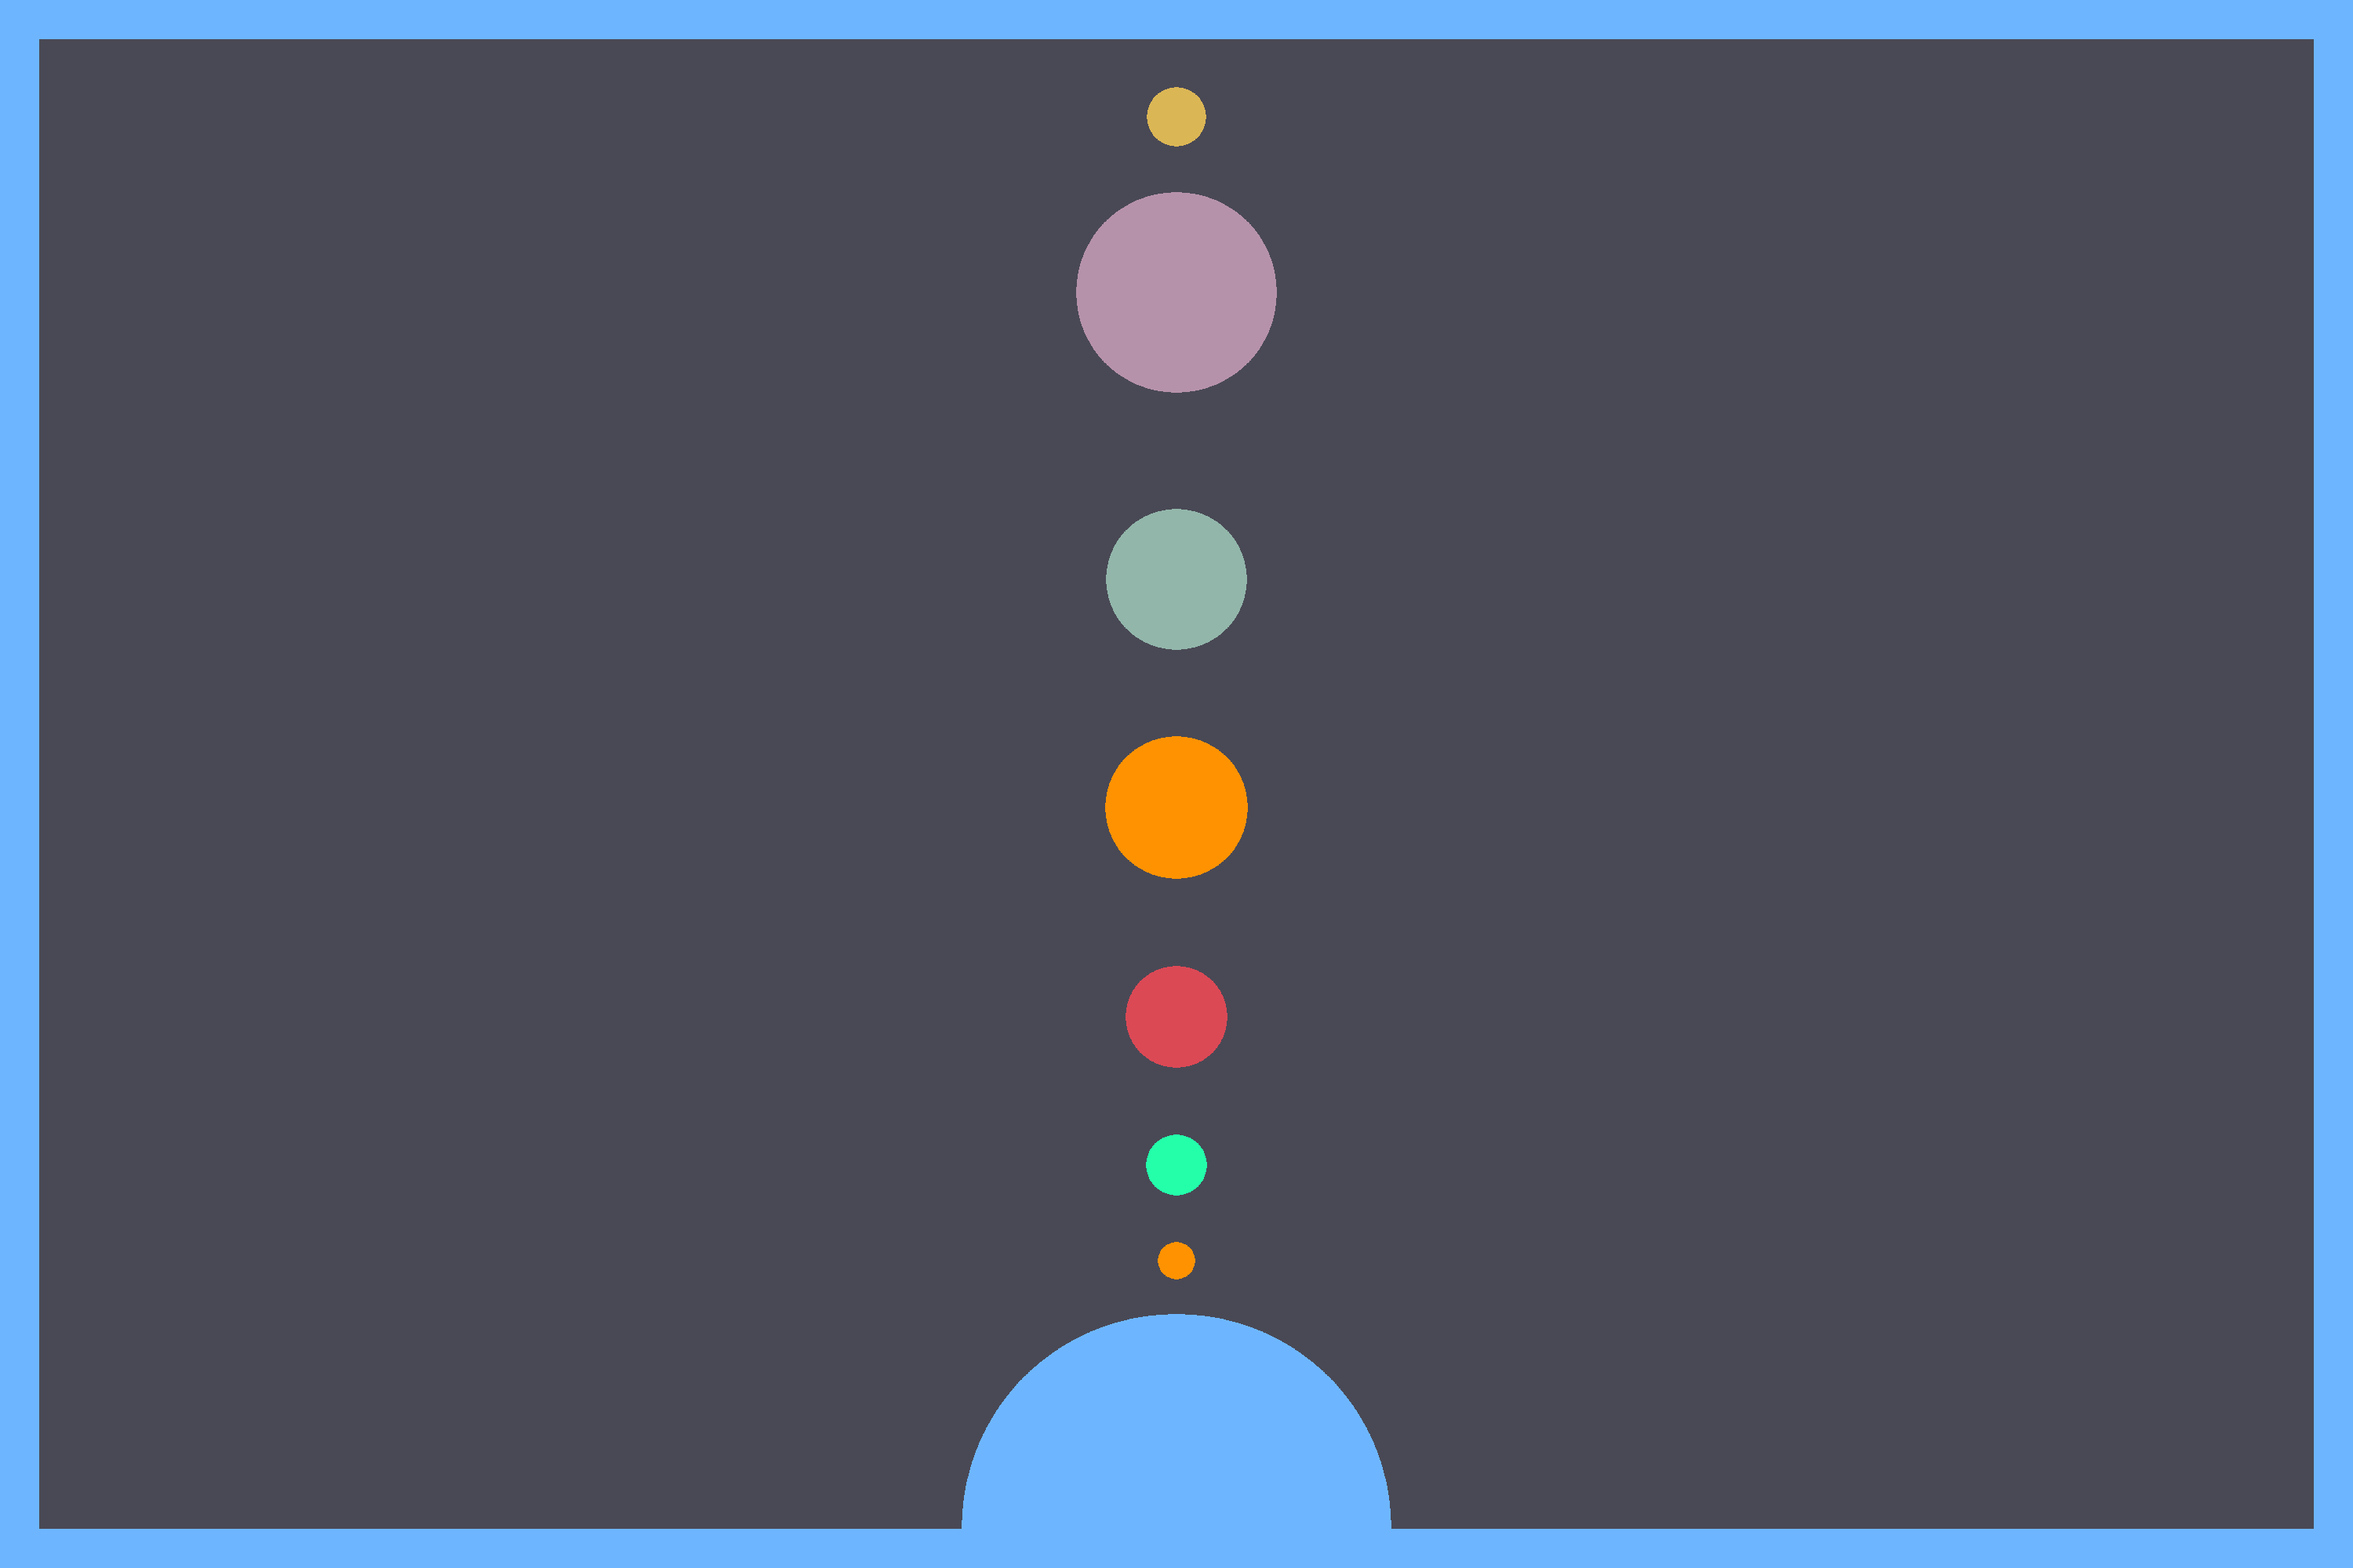
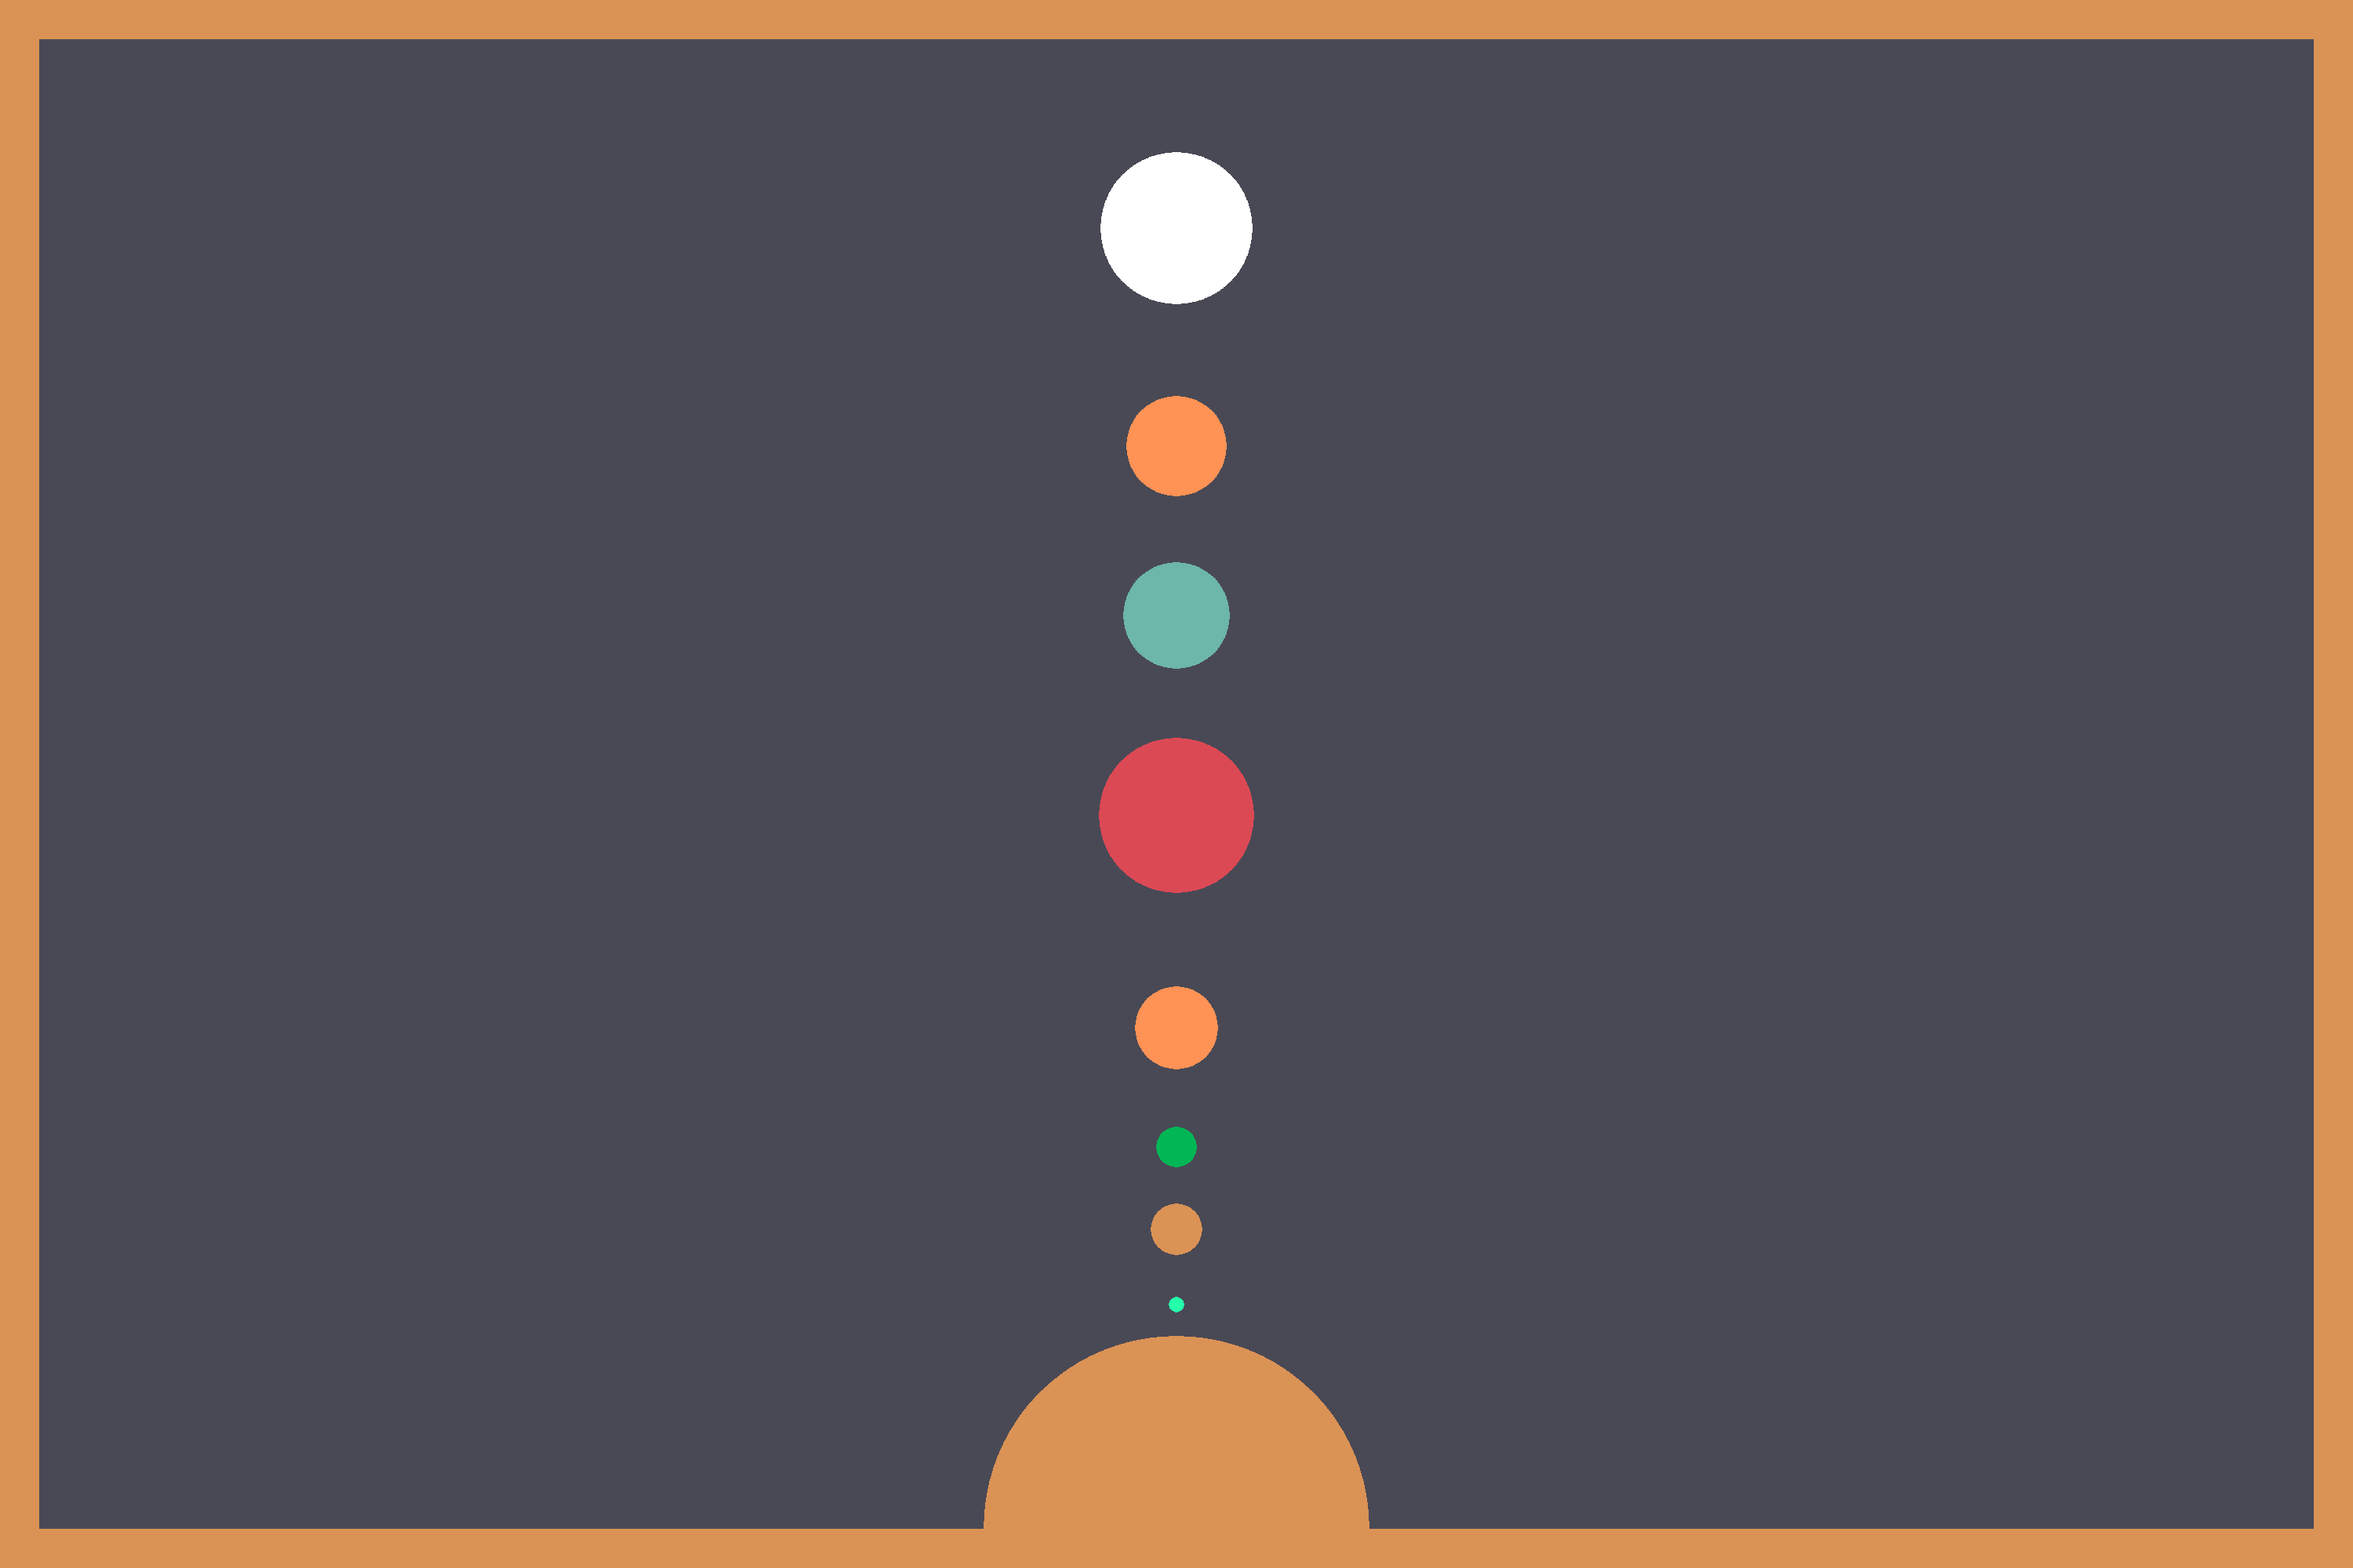
saparated colors for sun and planets

diff --git a/generative-space-system.py b/generative-space-system.py
@@ -4,8 +4,11 @@ import math
 import random
 import os
 
-list_of_colors = [(145, 185, 141), (229, 192, 121), (210, 191, 88), (140, 190, 178), (255, 183, 10), (189, 190, 220), (221, 79, 91), (16, 182, 98), (227, 146, 80), (241, 133, 123),
-                  (110, 197, 233), (235, 205, 188), (197, 239, 247), (190, 144, 212), (41, 241, 195), (101, 198, 187), (255, 246, 143), (243, 156, 18), (189, 195, 199), (243, 241, 239)]
+planet_list_of_colors = [(145, 185, 141), (229, 192, 121), (210, 191, 88),
+                         (140, 190, 178), (189, 190, 220), (221, 79, 91), (16, 182, 98), (227, 146, 80), (241, 133, 123), (110, 197, 233), (235, 205, 188), (197, 239, 247), (190, 144, 212), (41, 241, 195), (101, 198, 187), (255, 246, 143), (189, 195, 199), (243, 241, 239)]
+
+sun_list_of_colors = [(255, 183, 10), (221, 79, 91), (227, 146, 80),
+                      (241, 133, 123), (255, 246, 143), (243, 156, 18), (243, 241, 239)]
 
 
 def draw_filled_circle(img, position, radius, color, ):
@@ -45,7 +48,8 @@ def main():
     parser.add_argument("-bs", "--bordersize", help=".", default=50, type=int)
     parser.add_argument(
         "-c", "-center", help="solar system centered on image", action="store_true")
-    parser.add_argument("-co", "--colororbit", help="orbit lines same color as planet", action="store_true")
+    parser.add_argument("-co", "--colororbit",
+                        help="orbit lines same color as planet", action="store_true")
     args = parser.parse_args()
 
     width = args.width
@@ -60,7 +64,7 @@ def main():
     orbit_color = (153, 153, 153)
     draw_background(screen, background_color)
 
-    sun_color = random.choice(list_of_colors)
+    sun_color = random.choice(sun_list_of_colors)
     sun_position = (int(width/2), sun_center)
     draw_filled_circle(screen, sun_position, sun_size, sun_color)
     distance_between_planets = 20
@@ -72,9 +76,9 @@ def main():
     max_size = 70
 
     for x_pos in range(1, 20):
-        rand_color = random.choice(list_of_colors)
+        rand_color = random.choice(planet_list_of_colors)
         while (rand_color is last_color):
-            rand_color = random.choice(list_of_colors)
+            rand_color = random.choice(planet_list_of_colors)
         if (args.colororbit):
             orbit_color = rand_color
         next_size = random.randint(min_size, max_size)

diff --git a/readme.md b/readme.md
@@ -22,4 +22,4 @@ This is the result.
 - [ ] Add vector graphics and export as svg
 - [ ] Add texture for the image
 - [ ] Random texture on planets (not plain color)
-- [ ] Different color sets for sun / planets
+- [x] Different color sets for sun / planets
